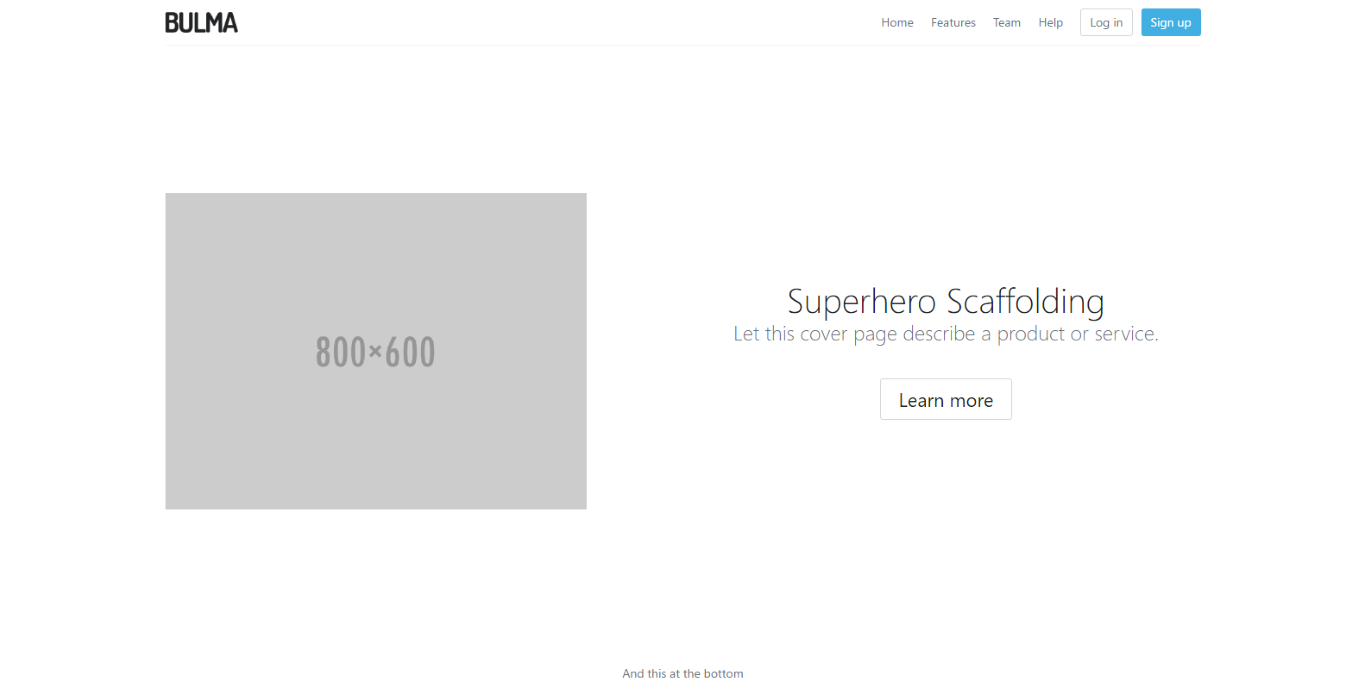
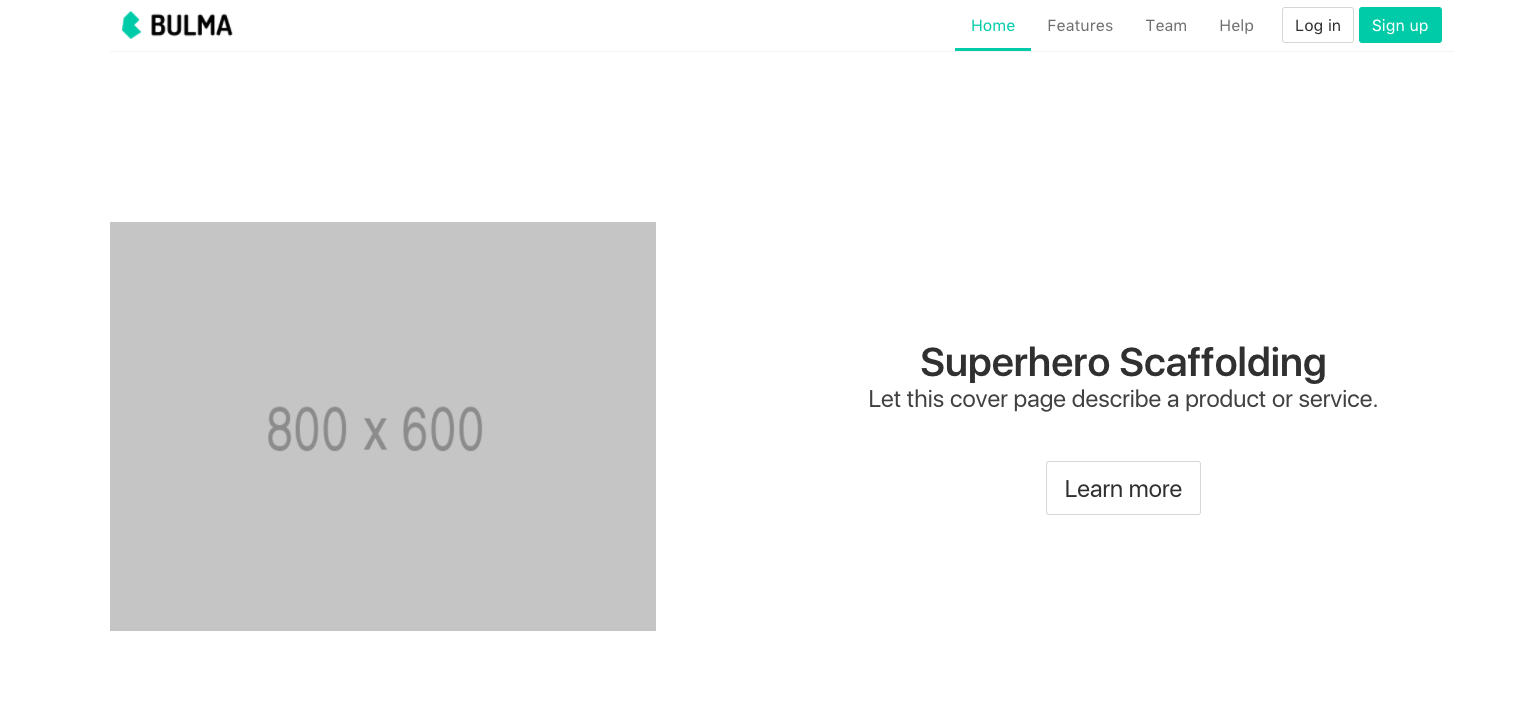
Update Cover Template. v0.1.1 => v0.5.3

diff --git a/templates/cover.html b/templates/cover.html
@@ -5,9 +5,7 @@
   <meta http-equiv="X-UA-Compatible" content="IE=edge">
   <meta name="viewport" content="width=device-width, initial-scale=1">
   <title>Cover - Free Bulma template</title>
-  <link rel="stylesheet" href="https://maxcdn.bootstrapcdn.com/font-awesome/4.5.0/css/font-awesome.min.css">
-  <link rel="stylesheet" id="bulma" href="https://cdnjs.cloudflare.com/ajax/libs/bulma/0.3.2/css/bulma.min.css" />
-  <link rel="stylesheet" type="text/css" href="../css/base.css">
+  <link rel="stylesheet" href="https://cdnjs.cloudflare.com/ajax/libs/bulma/0.5.3/css/bulma.min.css" integrity="sha256-spCEAaZMKebC3rE/ZTt8jITn65b0Zan45WXblWjyDyQ=" crossorigin="anonymous" />
 </head>
 <body>
   <section class="hero is-fullheight is-default is-bold">
@@ -39,12 +37,16 @@
                 Help
               </a>
               <span class="nav-item">
-                <a class="button">
-                  Log in
-                </a>
-                <a class="button is-info">
-                  Sign up
-                </a>
+                <div class="field is-grouped">
+                  <p class="control">
+                    <a class="button">
+                      Log in
+                    </a>
+                    <a class="button is-primary">
+                      Sign up
+                    </a>
+                  </p>
+                </div>
               </span>
             </div>
           </div>
